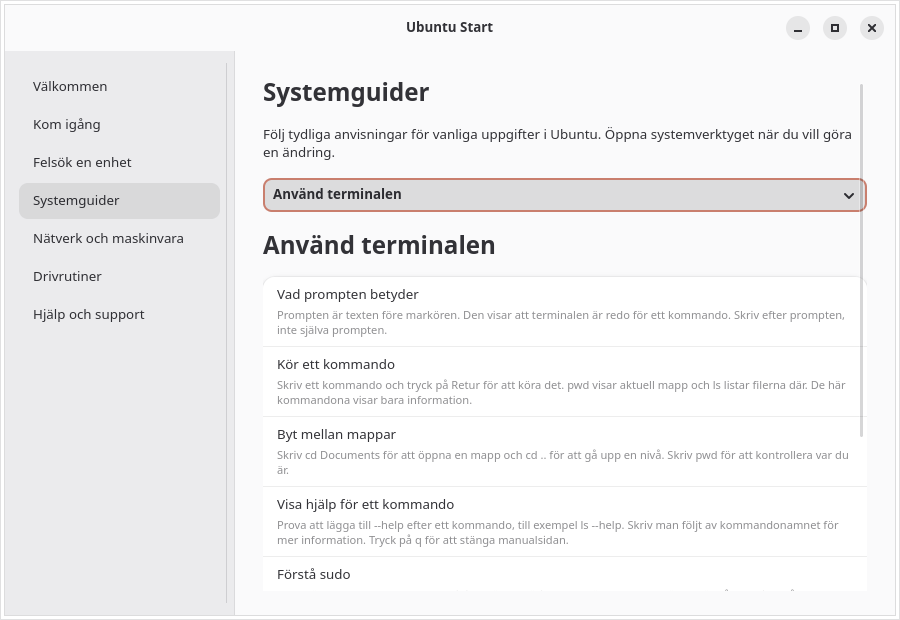
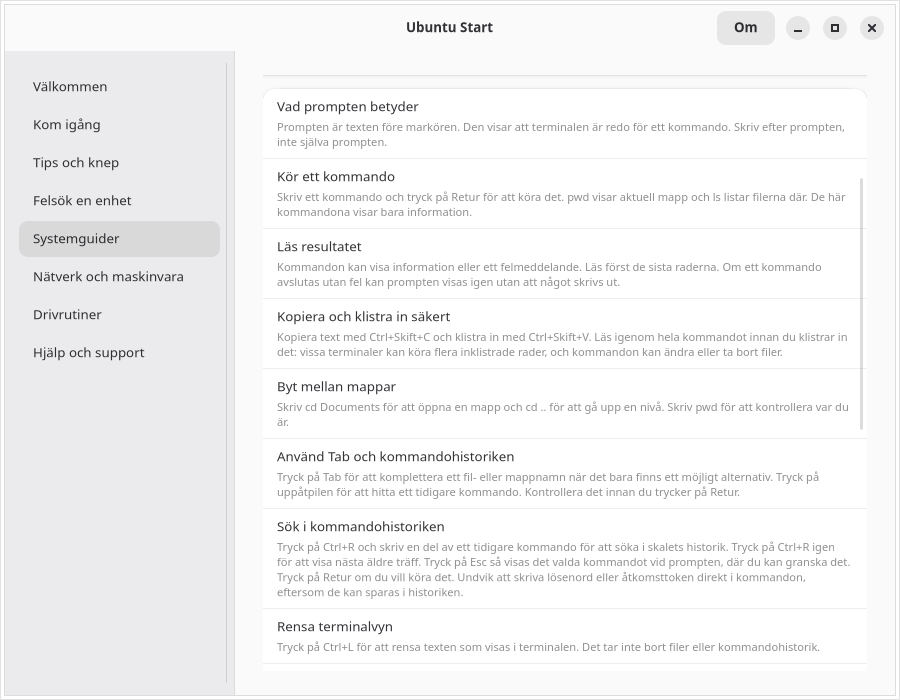
Add terminal history and clear-screen guidance

diff --git a/src/ubuntu_start.py b/src/ubuntu_start.py
@@ -255,6 +255,8 @@ SYSTEM_GUIDES = [
         (_("Copy and paste safely"), _("Copy text with Ctrl+Shift+C and paste with Ctrl+Shift+V. Before pasting a command, read all of it: some terminals can run multiple pasted lines, and commands may change or delete files.")),
         (_("Move between folders"), _("Use cd Documents to enter a folder and cd .. to go up one level. Use pwd to check where you are.")),
         (_("Use Tab and command history"), _("Press Tab to complete a file or folder name when it is unique. Press the Up Arrow to find a command you used earlier; check it before pressing Enter.")),
+        (_("Search command history"), _("Press Ctrl+R and type part of an earlier command to search shell history. Press Ctrl+R again to cycle through older matches. Press Esc to put the selected command back at the prompt and review it; press Enter only if you intend to run it. Do not put passwords or access tokens directly in commands, because shell history may save them.")),
+        (_("Clear the terminal view"), _("Press Ctrl+L to clear the text currently shown in the terminal. This does not delete files or command history.")),
         (_("Type paths with spaces"), _("Put quotation marks around a folder or file name that contains spaces, for example: cd \"My Documents\". You can also type the first letters and press Tab to complete the name.")),
         (_("Ask a command for help"), _("Try a command followed by --help, such as ls --help. For more detail, use man followed by the command name; press q to leave the manual.")),
         (_("Understand sudo"), _("sudo runs a command with administrator privileges. Use it only when you understand and trust the command. Your password is not shown while you type it.")),

diff --git a/tests/test_accessibility_announcements.py b/tests/test_accessibility_announcements.py
@@ -246,6 +246,21 @@ class AccessibilityAnnouncementTests(unittest.TestCase):
         self.assertTrue(matches)
         self.assertTrue(all(match[2] == "Use the Terminal" for match in matches))
 
+    def test_terminal_history_and_clear_screen_help_is_searchable(self):
+        entries = [
+            ("system", index, guide_title, step_title, description)
+            for index, (guide_title, _target, _action, steps) in enumerate(SYSTEM_GUIDES)
+            for step_title, description in steps
+        ]
+
+        history_matches = find_guide_matches("Ctrl+R search command history", entries)
+        self.assertTrue(history_matches)
+        self.assertTrue(all(match[2] == "Use the Terminal" for match in history_matches))
+
+        clear_matches = find_guide_matches("Ctrl+L clear terminal view", entries)
+        self.assertTrue(clear_matches)
+        self.assertTrue(all(match[2] == "Use the Terminal" for match in clear_matches))
+
     def test_pci_device_help_is_searchable(self):
         entries = [
             ("device", index, guide_title, step_title, description)

diff --git a/README.md b/README.md
@@ -78,7 +78,7 @@ meson compile -C build
 sudo meson install -C build
 ```
 
-To build an installable Debian package after installing the dependencies, run `scripts/build-deb.sh`. It creates `build/packages/ubuntu-start_0.3.14-1_all.deb`. Install it with `sudo apt install ./build/packages/ubuntu-start_0.3.14-1_all.deb`; APT resolves the declared GTK and Python runtime dependencies.
+To build an installable Debian package after installing the dependencies, run `scripts/build-deb.sh`. It creates `build/packages/ubuntu-start_0.3.15-1_all.deb`. Install it with `sudo apt install ./build/packages/ubuntu-start_0.3.15-1_all.deb`; APT resolves the declared GTK and Python runtime dependencies.
 
 The wheel and source distribution are published on [PyPI](https://pypi.org/project/ubuntu-start/). Install the GTK platform dependencies with APT first, then install the package in an isolated environment that can access system PyGObject bindings:
 
@@ -104,7 +104,7 @@ NetworkManager, Bluetooth, audio, storage, battery and hardware summaries use lo
 
 ## Validation
 
-Version `0.3.14` adds local/remote desktop-session status to system details and the optional support report, without including remote host details. On Ubuntu 26.10 machine `trv2`, the live logind check identified the active GNOME Wayland session as remote. All 276 unit tests and both English and Swedish Xvfb/AT-SPI checks passed. Version `0.3.13` added step-by-step instructions for inspecting a failed system service and reviewing recent log messages safely. The prior `0.3.13-1` package installed with clean `dpkg --audit` and `apt-get check` results. A live-session check confirmed GNOME Wayland over RDP with Ubuntu Start running in that session. AT-SPI exposed the `Ubuntu Start` frame and reported it as visible. Pixel-level display rendering and physical device behavior remain unverified.
+Version `0.3.15` adds beginner-friendly guidance for searching command history with Ctrl+R and clearing the terminal view with Ctrl+L, with a warning not to put secrets in commands. On Ubuntu 26.10, all 277 unit tests, English and Swedish Xvfb/AT-SPI checks, staged installation checks, Debian package build, Swedish catalog validation and AppStream validation passed. Version `0.3.14` adds local/remote desktop-session status to system details and the optional support report, without including remote host details. On Ubuntu 26.10 machine `trv2`, the live logind check identified the active GNOME Wayland session as remote. All 276 unit tests and both English and Swedish Xvfb/AT-SPI checks passed for version `0.3.14`. Version `0.3.13` added step-by-step instructions for inspecting a failed system service and reviewing recent log messages safely. The prior `0.3.13-1` package installed with clean `dpkg --audit` and `apt-get check` results. A live-session check confirmed GNOME Wayland over RDP with Ubuntu Start running in that session. AT-SPI exposed the `Ubuntu Start` frame and reported it as visible. Pixel-level display rendering and physical device behavior remain unverified.
 
 The CI workflow launches the application under Xvfb and checks its AT-SPI tree. On Ubuntu 24.04 and 26.04, it verifies that all eight guide pages are named list items, the About, USB, video and display controls are named buttons, the Mouse Keys status row is exposed, and Ctrl+F moves keyboard focus to the named guide-search entry; Orca 51 also lists the app on `trv2`. Ubuntu 26.10 now runs the same unit, accessibility and package checks in CI, and the released app has also passed a local GTK smoke test on that release. Earlier checks confirmed search behavior in a live GTK session and the Bluetooth, Wi-Fi, printer, display, privacy, sound and keyboard panel identifiers in GNOME Control Center. The two Ubuntu driver/update utilities were installed with `dpkg -i`; Additional Drivers and Update Manager opened in Swedish, and `dpkg --audit` and `apt-get check` reported no package errors. Those device and utility checks apply to the earlier revision. Xvfb does not verify physical-device behavior, hardware acceleration or GNOME/Wayland rendering.
 
